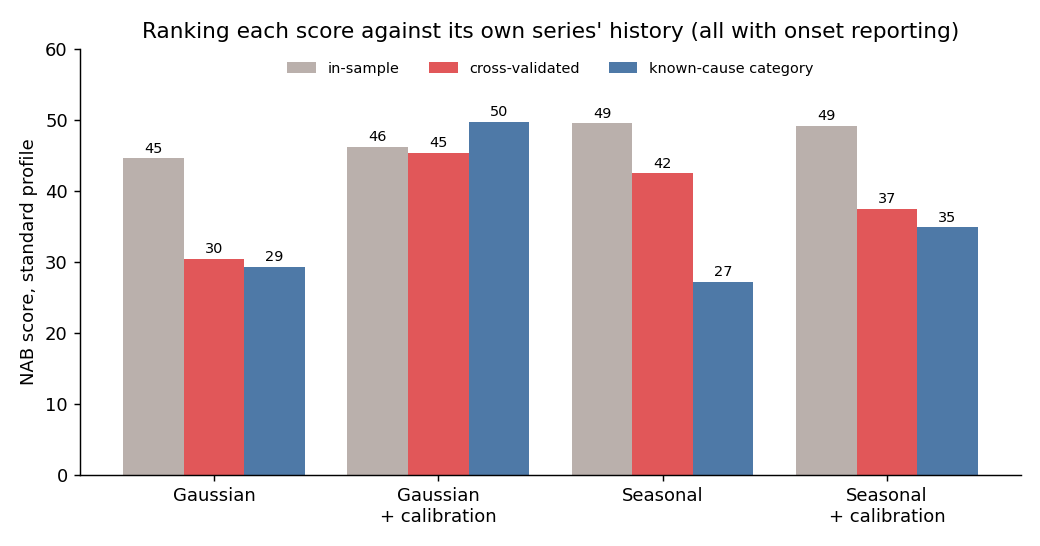
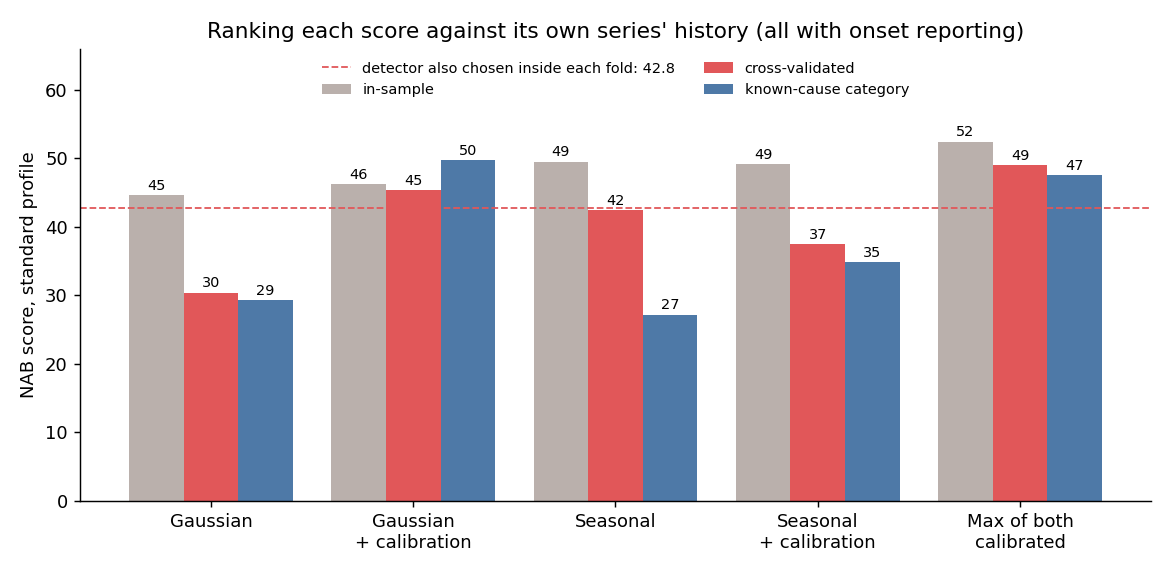
Nested cross-validation: choosing the detector is tuning too (#2)
The max of the two calibrated detectors scores 49.0 cross-validated, but the detector was
picked after seeing every cross-validated score. Choosing it inside each fold as well gives
42.8, now the headline number: the tweets fold picks the plain seasonal detector and that
one choice costs about six points.

diff --git a/docs/index.html b/docs/index.html
@@ -71,14 +71,14 @@
   <div class="stats">
     <div class="stat"><b>9 / 9</b><span>published NAB results reproduced exactly by the scorer</span></div>
     <div class="stat"><b>2.4 &rarr; 41.0</b><span>seasonal detector once it reports only onsets</span></div>
-    <div class="stat"><b>45.3</b><span>cross-validated score with per-series calibration (seasonal: 42.4)</span></div>
+    <div class="stat"><b>42.8</b><span>whole pipeline cross-validated, detector included (49.0 for the best detector picked by hand)</span></div>
     <div class="stat"><b>27 &rarr; 50</b><span>known-cause series, single threshold vs per-series calibration</span></div>
   </div>
 </header>
 
 <h2><span class="num">01</span>Where it lands</h2>
 <figure>
-  <img src="img/leaderboard.png" alt="Horizontal bar chart of NAB standard scores: published detectors from expose 16.4 to ARTime 74.9, with this repo at 49.5 in-sample, 42.4 and 45.3 cross-validated, all above windowedGaussian 39.6.">
+  <img src="img/leaderboard.png" alt="Horizontal bar chart of NAB standard scores: published detectors from expose 16.4 to ARTime 74.9, with this repo at 49.5 in-sample, 42.4 cross-validated and 42.8 with the detector also chosen inside each fold, all above windowedGaussian 39.6.">
   <figcaption>Published detectors (grey) and this repo (red). The cross-validated score chooses settings and threshold without the data it scores; most published numbers do not.</figcaption>
 </figure>
 
@@ -97,7 +97,7 @@
 <h2><span class="num">04</span>A per-series threshold, tested</h2>
 <figure>
   <img src="img/calibration.png" alt="Grouped bars for four detectors: Gaussian 44.6 in-sample, 30.4 cross-validated, 29.3 known-cause; Gaussian with calibration 46.2, 45.3, 49.7; seasonal 49.5, 42.4, 27.1; seasonal with calibration 49.1, 37.4, 34.8.">
-  <figcaption>Ranking each score against its own series' history makes the Gaussian detector the best honest number (45.3, same setting in every fold) and lifts the known-cause series from 29 to 50. It hurts the seasonal detector, which is already scaled per series, and still misses the machine failure.</figcaption>
+  <figcaption>Ranking each score against its own series' history makes the Gaussian detector the best honest number (45.3, same setting in every fold) and lifts the known-cause series from 29 to 50. It hurts the seasonal detector, which is already scaled per series, and still misses the machine failure. The maximum of both calibrated detectors scores 49.0; choosing the detector inside each fold as well (dashed line) gives the honest 42.8.</figcaption>
 </figure>
 
 <footer>

diff --git a/src/nabscore/calibration.py b/src/nabscore/calibration.py
@@ -1,8 +1,9 @@
 """Corpus threshold vs per-series calibration, in-sample and leave-one-category-out.
 
-Same raw scores and onset reporting as crossval.py; the only change is whether the
-scores are ranked against each series' own history (detectors.calibrate) before the
-single NAB threshold is applied.
+Same raw scores and onset reporting as crossval.py; the change is whether the scores are
+ranked against each series' own history (detectors.calibrate) before the single NAB
+threshold is applied. A last, nested run also chooses the detector inside each fold, since
+picking the best of several detectors after seeing their scores is tuning too.
 """
 from __future__ import annotations
 
@@ -18,12 +19,18 @@ from .run import load_corpus
 from .scoring import PROFILES, load_windows, nab_score, raw_at
 
 
-def scores(raw, det, k, calibrated):
-    out = {}
-    for r, v in raw.items():
-        s = D.squash(v[det])
-        out[r] = D.onset(D.calibrate(s) if calibrated else s, k)
-    return out
+def candidates(raw):
+    """Base scores (before onset) for every detector compared here."""
+    sq = {det: {r: D.squash(v[det]) for r, v in raw.items()} for det in ("gaussian", "seasonal")}
+    cal = {det: {r: D.calibrate(s) for r, s in sq[det].items()} for det in sq}
+    return {
+        "gaussian + onset": sq["gaussian"],
+        "gaussian + per-series calibration + onset": cal["gaussian"],
+        "seasonal + onset": sq["seasonal"],
+        "seasonal + per-series calibration + onset": cal["seasonal"],
+        "max(calibrated gaussian, calibrated seasonal) + onset":
+            {r: np.maximum(cal["gaussian"][r], cal["seasonal"][r]) for r in raw},
+    }
 
 
 def cross_validated(corpus, windows, per_k):
@@ -57,19 +64,23 @@ def main() -> None:
     windows = load_windows()
     corpus = load_corpus(windows)
     raw = pickle.loads(Path("data/cache/raw.pkl").read_bytes())
-    out = {}
-    for det in ("gaussian", "seasonal"):
-        for calibrated in (False, True):
-            name = f"{det} + {'per-series calibration + ' if calibrated else ''}onset"
-            per_k = {k: scores(raw, det, k, calibrated) for k in K_GRID}
-            fits = {k: nab_score(frames(corpus, per_k[k], corpus), windows) for k in K_GRID}
-            k_in = max(fits, key=lambda k: fits[k]["score"])
-            cv, picks = cross_validated(corpus, windows, per_k)
-            out[name] = {"in_sample_by_k": {k: f["score"] for k, f in fits.items()}, "best_in_sample": fits[k_in]["score"],
-                         "k_in_sample": k_in, "threshold": fits[k_in]["threshold"], "cross_validated": cv,
-                         "k_picked": picks, "by_category": by_category(corpus, windows, per_k[k_in])}
-            print(name, round(fits[k_in]["score"], 1), f"k={k_in}", "CV", round(cv, 1), picks,
-                  {c: round(v, 1) for c, v in out[name]["by_category"].items()}, flush=True)
+    out, every = {}, {}
+    for name, base in candidates(raw).items():
+        per_k = {k: {r: D.onset(base[r], k) for r in corpus} for k in K_GRID}
+        every.update({(name, k): s for k, s in per_k.items()})
+        fits = {k: nab_score(frames(corpus, per_k[k], corpus), windows) for k in K_GRID}
+        k_in = max(fits, key=lambda k: fits[k]["score"])
+        cv, picks = cross_validated(corpus, windows, per_k)
+        out[name] = {"in_sample_by_k": {k: f["score"] for k, f in fits.items()}, "best_in_sample": fits[k_in]["score"],
+                     "k_in_sample": k_in, "threshold": fits[k_in]["threshold"], "cross_validated": cv,
+                     "k_picked": picks, "by_category": by_category(corpus, windows, per_k[k_in])}
+        print(name, round(fits[k_in]["score"], 1), f"k={k_in}", "CV", round(cv, 1), picks,
+              {c: round(v, 1) for c, v in out[name]["by_category"].items()}, flush=True)
+    # Nested: the detector itself is also chosen on the training categories of each fold
+    cv, picks = cross_validated(corpus, windows, every)
+    out["nested: detector and k chosen per fold"] = {"cross_validated": cv,
+                                                     "picked": {c: list(p) for c, p in picks.items()}}
+    print("nested", round(cv, 1), picks, flush=True)
     Path("reports/calibration.json").write_text(json.dumps(out, indent=2, default=float))
 
 

diff --git a/src/nabscore/figures.py b/src/nabscore/figures.py
@@ -45,10 +45,10 @@ def main() -> None:
     board["this repo: seasonal + onset\n(in-sample, like NAB)"] = summary["standard"]["score"]
     board["this repo: seasonal + onset\n(cross-validated)"] = cv["seasonal"]["cross_validated"]
     cal = json.loads(Path("reports/calibration.json").read_text())
-    board["this repo: Gaussian + per-series\ncalibration + onset (cross-validated)"] = \
-        cal["gaussian + per-series calibration + onset"]["cross_validated"]
+    board["this repo: whole pipeline, detector\nalso chosen per fold (nested CV)"] = \
+        cal["nested: detector and k chosen per fold"]["cross_validated"]
     items = sorted(board.items(), key=lambda kv: kv[1])
-    fig, ax = plt.subplots(figsize=(8, 6))
+    fig, ax = plt.subplots(figsize=(8, 6.6))
     colors = ["#E15759" if "this repo" in k else "#BAB0AC" for k, _ in items]
     ax.barh([k for k, _ in items], [v for _, v in items], color=colors)
     for i, (_, v) in enumerate(items):
@@ -62,22 +62,25 @@ def main() -> None:
 
     # 1b. Per-series calibration: in-sample vs cross-validated, and the known-cause category
     names = ["gaussian + onset", "gaussian + per-series calibration + onset",
-             "seasonal + onset", "seasonal + per-series calibration + onset"]
-    labels = ["Gaussian", "Gaussian\n+ calibration", "Seasonal", "Seasonal\n+ calibration"]
+             "seasonal + onset", "seasonal + per-series calibration + onset",
+             "max(calibrated gaussian, calibrated seasonal) + onset"]
+    labels = ["Gaussian", "Gaussian\n+ calibration", "Seasonal", "Seasonal\n+ calibration", "Max of both\ncalibrated"]
     series = [("in-sample", [cal[n]["best_in_sample"] for n in names], "#BAB0AC"),
               ("cross-validated", [cal[n]["cross_validated"] for n in names], "#E15759"),
               ("known-cause category", [cal[n]["by_category"]["realKnownCause"] for n in names], "#4E79A7")]
-    fig, ax = plt.subplots(figsize=(8, 4.2))
+    fig, ax = plt.subplots(figsize=(9, 4.4))
     x = np.arange(len(names))
     for j, (lab, vals, col) in enumerate(series):
         ax.bar(x + (j - 1) * 0.27, vals, 0.27, label=lab, color=col)
         for i, v in enumerate(vals):
             ax.text(x[i] + (j - 1) * 0.27, v + 0.8, f"{v:.0f}", ha="center", fontsize=8)
+    nested = cal["nested: detector and k chosen per fold"]["cross_validated"]
+    ax.axhline(nested, color="#E15759", ls="--", lw=1, label=f"detector also chosen inside each fold: {nested:.1f}")
     ax.set_xticks(x, labels)
     ax.set_ylabel("NAB score, standard profile")
     ax.set_title("Ranking each score against its own series' history (all with onset reporting)")
-    ax.set_ylim(0, 60)
-    ax.legend(frameon=False, fontsize=8, loc="upper center", ncol=3)
+    ax.set_ylim(0, 66)
+    ax.legend(frameon=False, fontsize=8, loc="upper center", ncol=2)
     ax.spines[["top", "right"]].set_visible(False)
     fig.tight_layout()
     fig.savefig(OUT / "calibration.png", dpi=130)

diff --git a/README.es.md b/README.es.md
@@ -17,7 +17,9 @@ mueve el puntaje.
 
 | | Puntaje NAB estándar |
 |---|---|
-| **Gaussiano + calibración por serie + reporte de inicio, con validación cruzada** | **45,3** |
+| **Todo el procedimiento con validación cruzada: detector, k y umbral elegidos sin la categoría evaluada** | **42,8** |
+| Máximo del gaussiano y el estacional calibrados + reporte de inicio, con validación cruzada (detector fijado después de ver los resultados) | 49,0 |
+| Gaussiano + calibración por serie + reporte de inicio, con validación cruzada (misma salvedad) | 45,3 |
 | Residuo estacional + reporte de inicio, con validación cruzada | 42,4 |
 | Residuo estacional, con parámetros y umbral elegidos sobre todo el corpus (la convención de NAB) | 49,5 |
 | Baseline publicado `windowedGaussian` | 39,6 |
@@ -95,6 +97,7 @@ este equipo". Evaluado igual que antes:
 | **Gaussiano + calibración por serie** | 46,2 | **45,3** | **49,7** |
 | Estacional | 49,5 | 42,4 | 27,1 |
 | Estacional + calibración por serie | 49,1 | 37,4 | 34,8 |
+| Máximo de ambos calibrados | 52,4 | 49,0 | 47,5 |
 
 La calibración rescata al detector gaussiano: sube 15 puntos con validación cruzada, elige el mismo
 k = 400 en los siete pliegues y casi no hay brecha entre dentro de muestra y validación cruzada, lo
@@ -106,6 +109,16 @@ Tampoco rescata la serie de temperatura de la máquina: ahí los detectores cali
 cuatro ventanas, con 21 a 27 falsas alarmas. La calibración arregla el problema de *escala* entre
 equipos; no arregla un detector cuyos puntajes en períodos normales se parecen a los de antes de una
 falla.
+
+Tomar el máximo de los dos detectores calibrados da 49,0 con validación cruzada, otra vez con k = 400
+en todos los pliegues. Pero esa validación cruzada solo cubre k y el umbral: el *detector* se eligió
+después de ver los cinco puntajes con validación cruzada, que es ajustar sobre el test un nivel más
+arriba. Si el detector también se elige dentro de cada pliegue (cinco detectores por seis valores de
+k, validación anidada), el resultado es **42,8**. Seis de siete pliegues eligen el máximo calibrado;
+al dejar fuera los tweets, las categorías de entrenamiento prefieren el detector estacional simple,
+que en tweets rinde mucho peor, y esa sola elección cuesta unos seis puntos. 42,8 es el número que
+corresponde citar para el procedimiento completo; 45,3 y 49,0 son lo que logran dos detectores
+específicos elegidos a mano.
 
 ## Método
 

diff --git a/README.md b/README.md
@@ -16,7 +16,9 @@ simple online detectors to find out what actually moves the score.
 
 | | NAB standard score |
 |---|---|
-| **Gaussian + per-series calibration + onset reporting, cross-validated** | **45.3** |
+| **Whole pipeline cross-validated: detector, k and threshold all chosen without the scored category** | **42.8** |
+| Max of calibrated Gaussian and seasonal + onset, cross-validated (detector fixed after seeing the results) | 49.0 |
+| Gaussian + per-series calibration + onset, cross-validated (same caveat) | 45.3 |
 | Seasonal residual + onset reporting, cross-validated | 42.4 |
 | Seasonal residual, settings and threshold chosen on the whole corpus (the NAB convention) | 49.5 |
 | Published `windowedGaussian` baseline | 39.6 |
@@ -90,6 +92,7 @@ unusual reading this asset has shown" on every series. Scored the same way as ab
 | **Gaussian + per-series calibration** | 46.2 | **45.3** | **49.7** |
 | Seasonal | 49.5 | 42.4 | 27.1 |
 | Seasonal + per-series calibration | 49.1 | 37.4 | 34.8 |
+| Max of both calibrated | 52.4 | 49.0 | 47.5 |
 
 Calibration rescues the Gaussian detector: cross-validated score up 15 points, the same k = 400
 picked in all seven folds, and almost no gap between in-sample and cross-validated, which makes it
@@ -101,6 +104,15 @@ It does not rescue the machine-temperature series itself: the calibrated detecto
 four windows there, with 21 to 27 false alarms. Calibration fixes the *scale* problem across
 assets; it cannot fix a detector whose scores in normal periods look like its scores before a
 failure.
+
+Taking the maximum of the two calibrated detectors scores 49.0 cross-validated, again with k = 400 in
+every fold. But that cross-validation only covers k and the threshold: the *detector* was chosen
+after seeing all five cross-validated scores, which is tuning on the test set one level up. Choosing
+the detector inside each fold too (five detectors by six values of k, nested) gives **42.8**. Six of
+seven folds pick the calibrated maximum; holding out the tweets, the training categories prefer the
+plain seasonal detector, which does much worse on tweets, and that single choice costs about six
+points. 42.8 is the number to quote for the whole procedure; 45.3 and 49.0 are what two specific,
+hand-picked detectors score.
 
 ## Method
 
